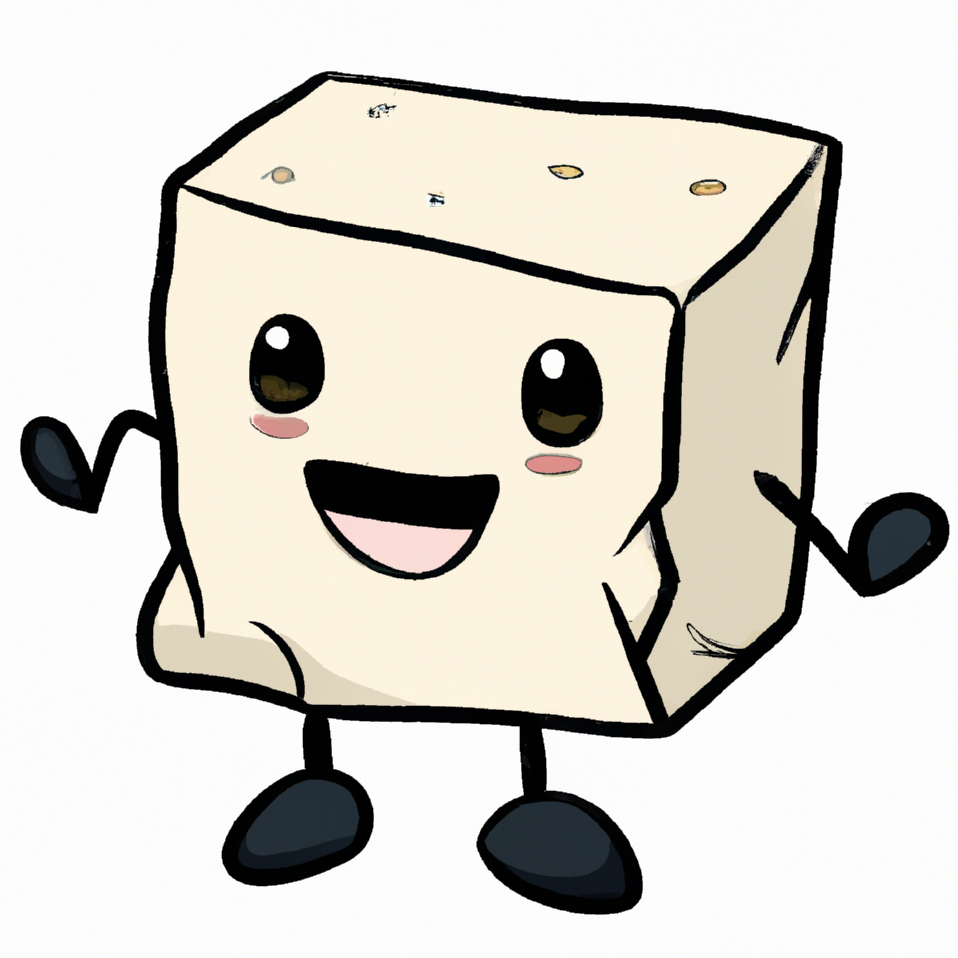
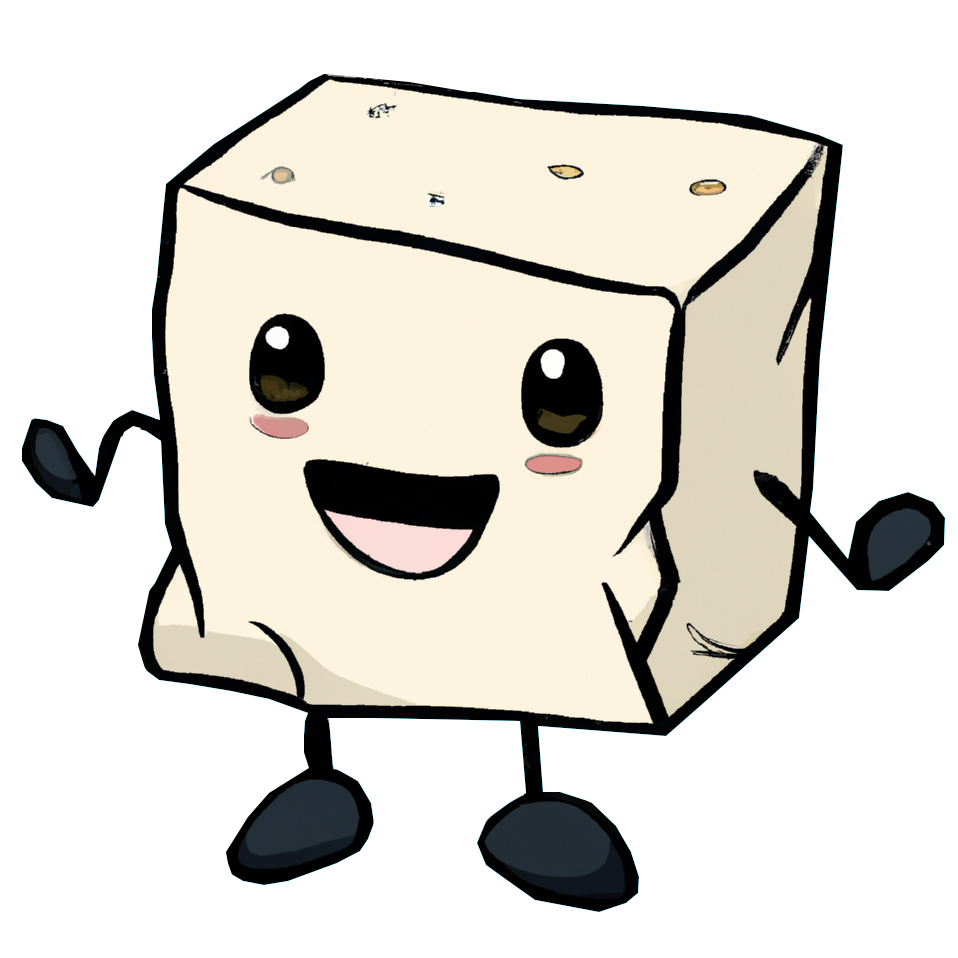
add tiny tofu

diff --git a/README.md b/README.md
@@ -1,6 +1,6 @@
 # AWS OpenTofu 
 
-![img/tofu-aws.png](img/tofu-aws.png)
+![img/tofu-aws-small.png](img/tofu-aws-small.png)
 
 These recipes will use [OpenTofu](https://opentofu.org) to deploy an EKS cluster (or other associated assets). This is the first time we are doing this, so consider it a WIP.
 For all recipes you should first [install](https://opentofu.org/docs/intro/install) it for your platform of choice, and you need AWS credentials for OpenTofu to find.
